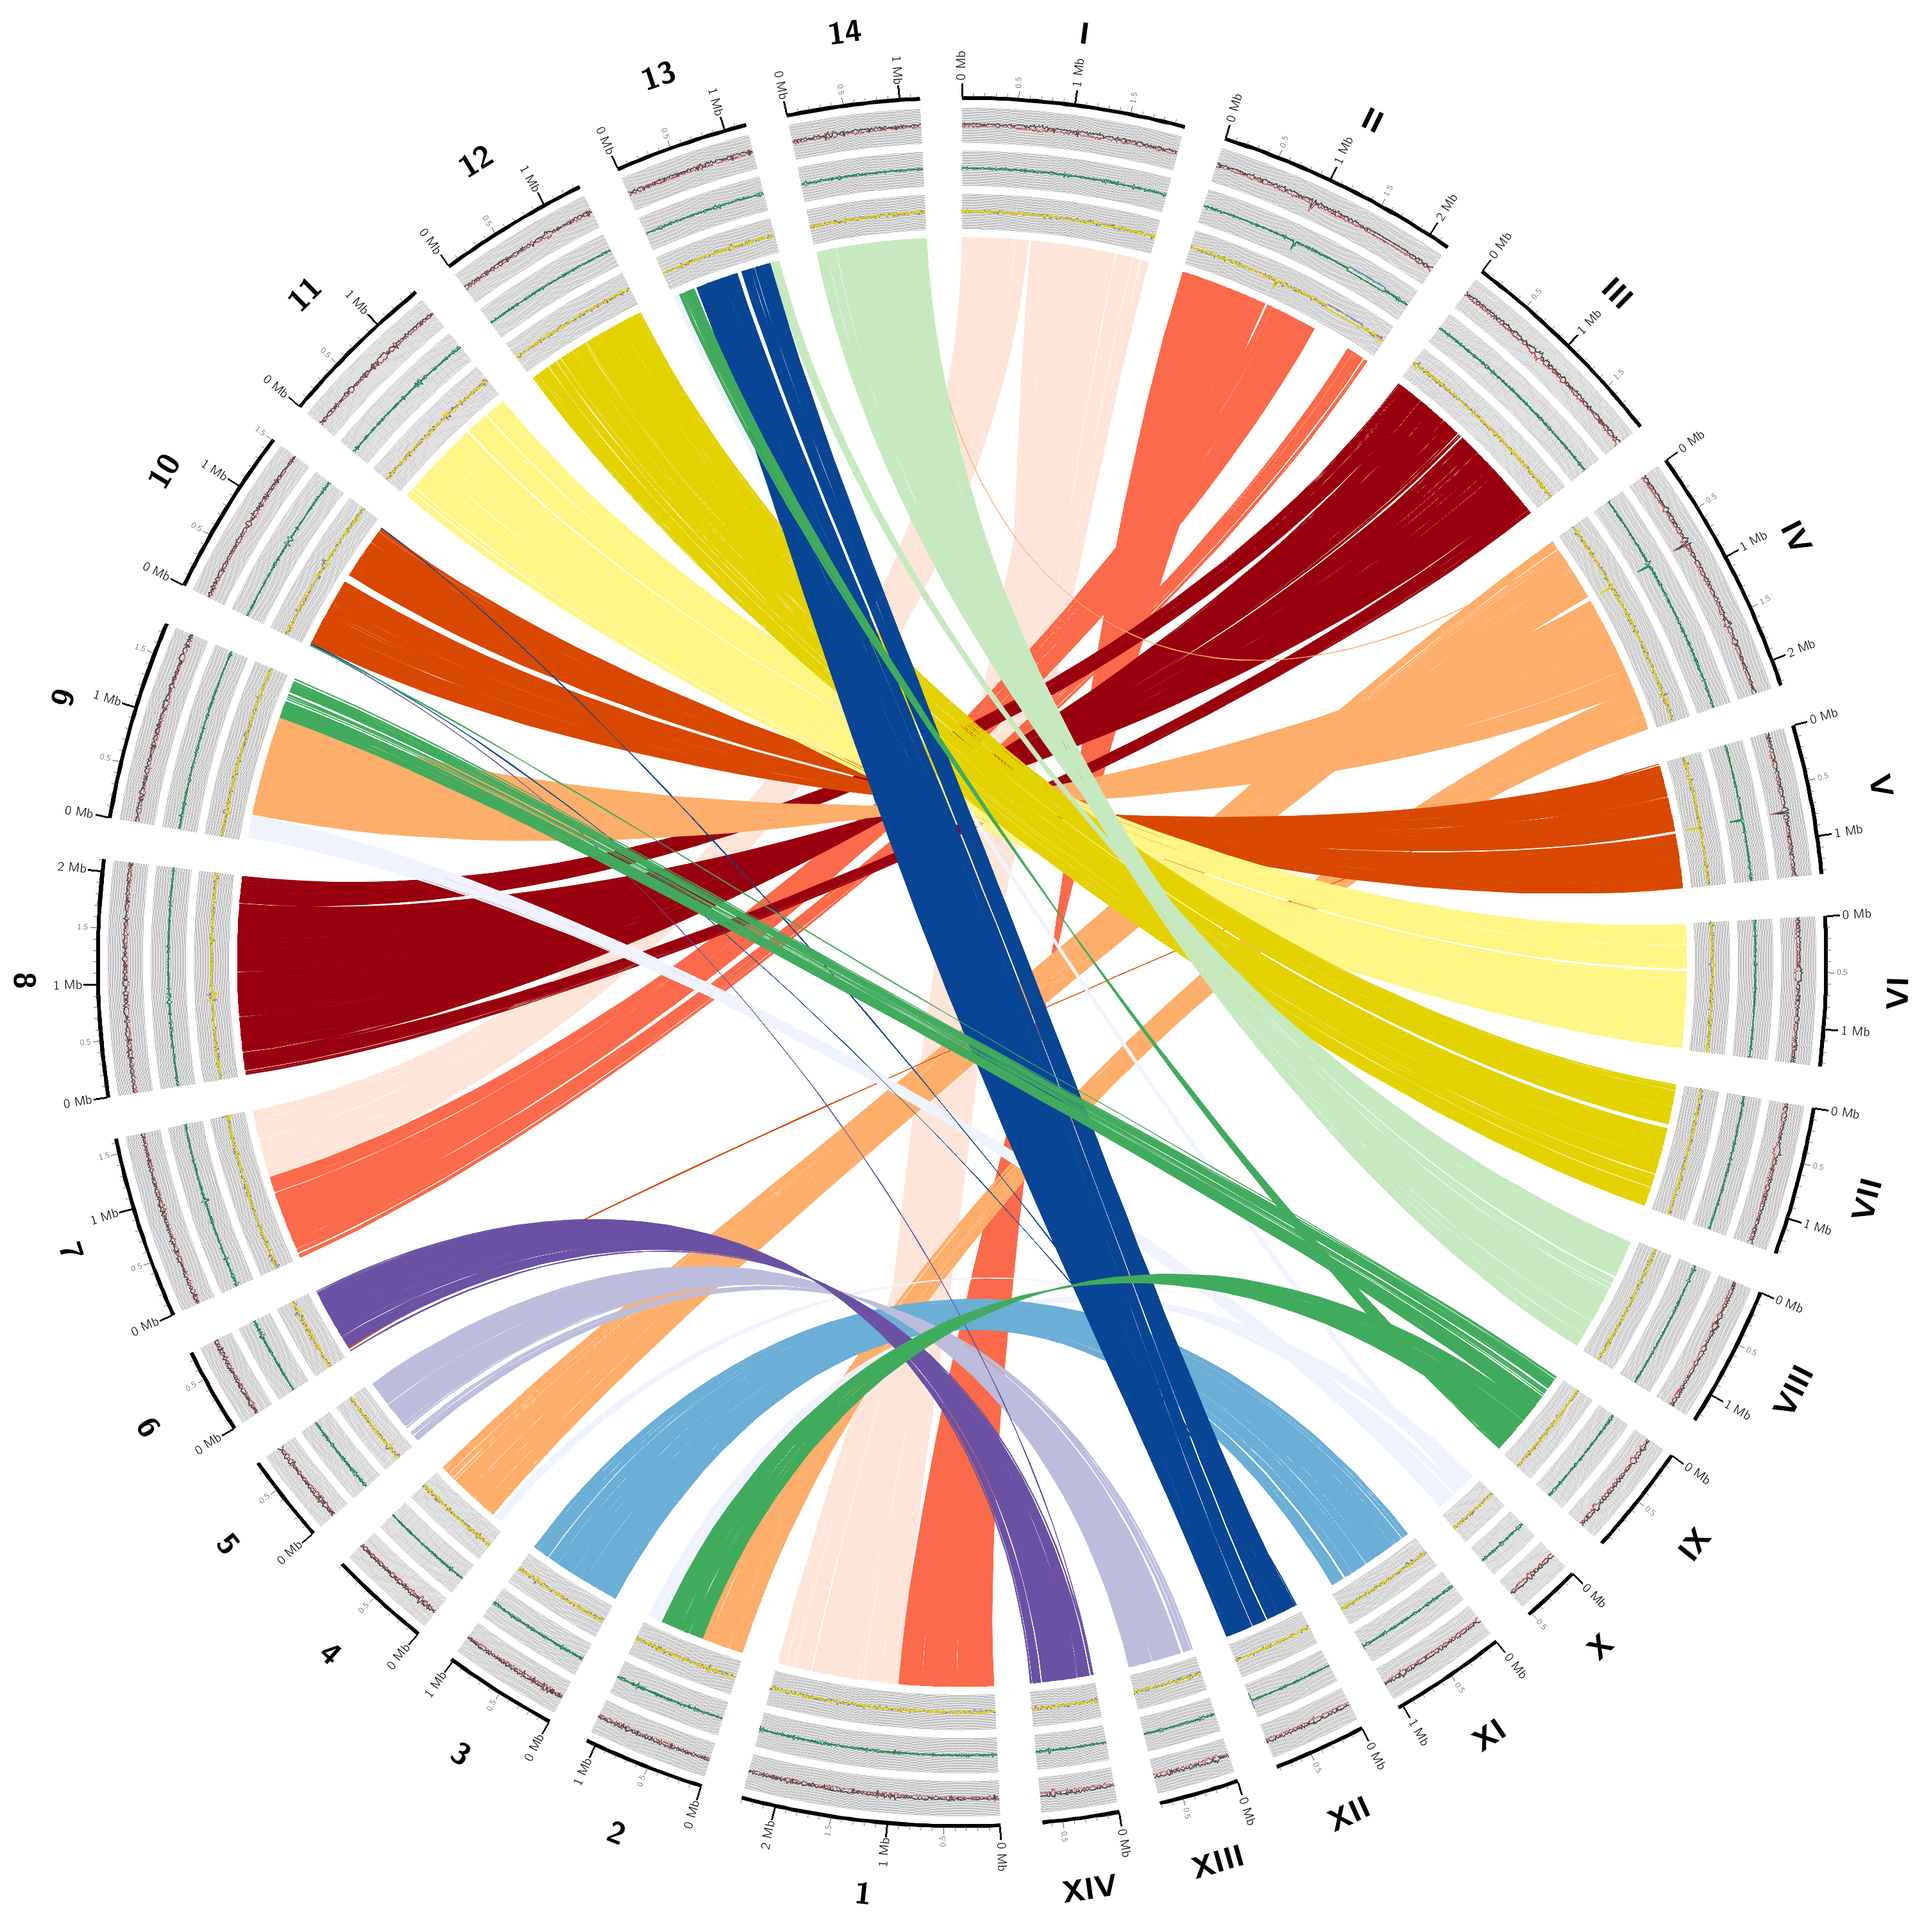
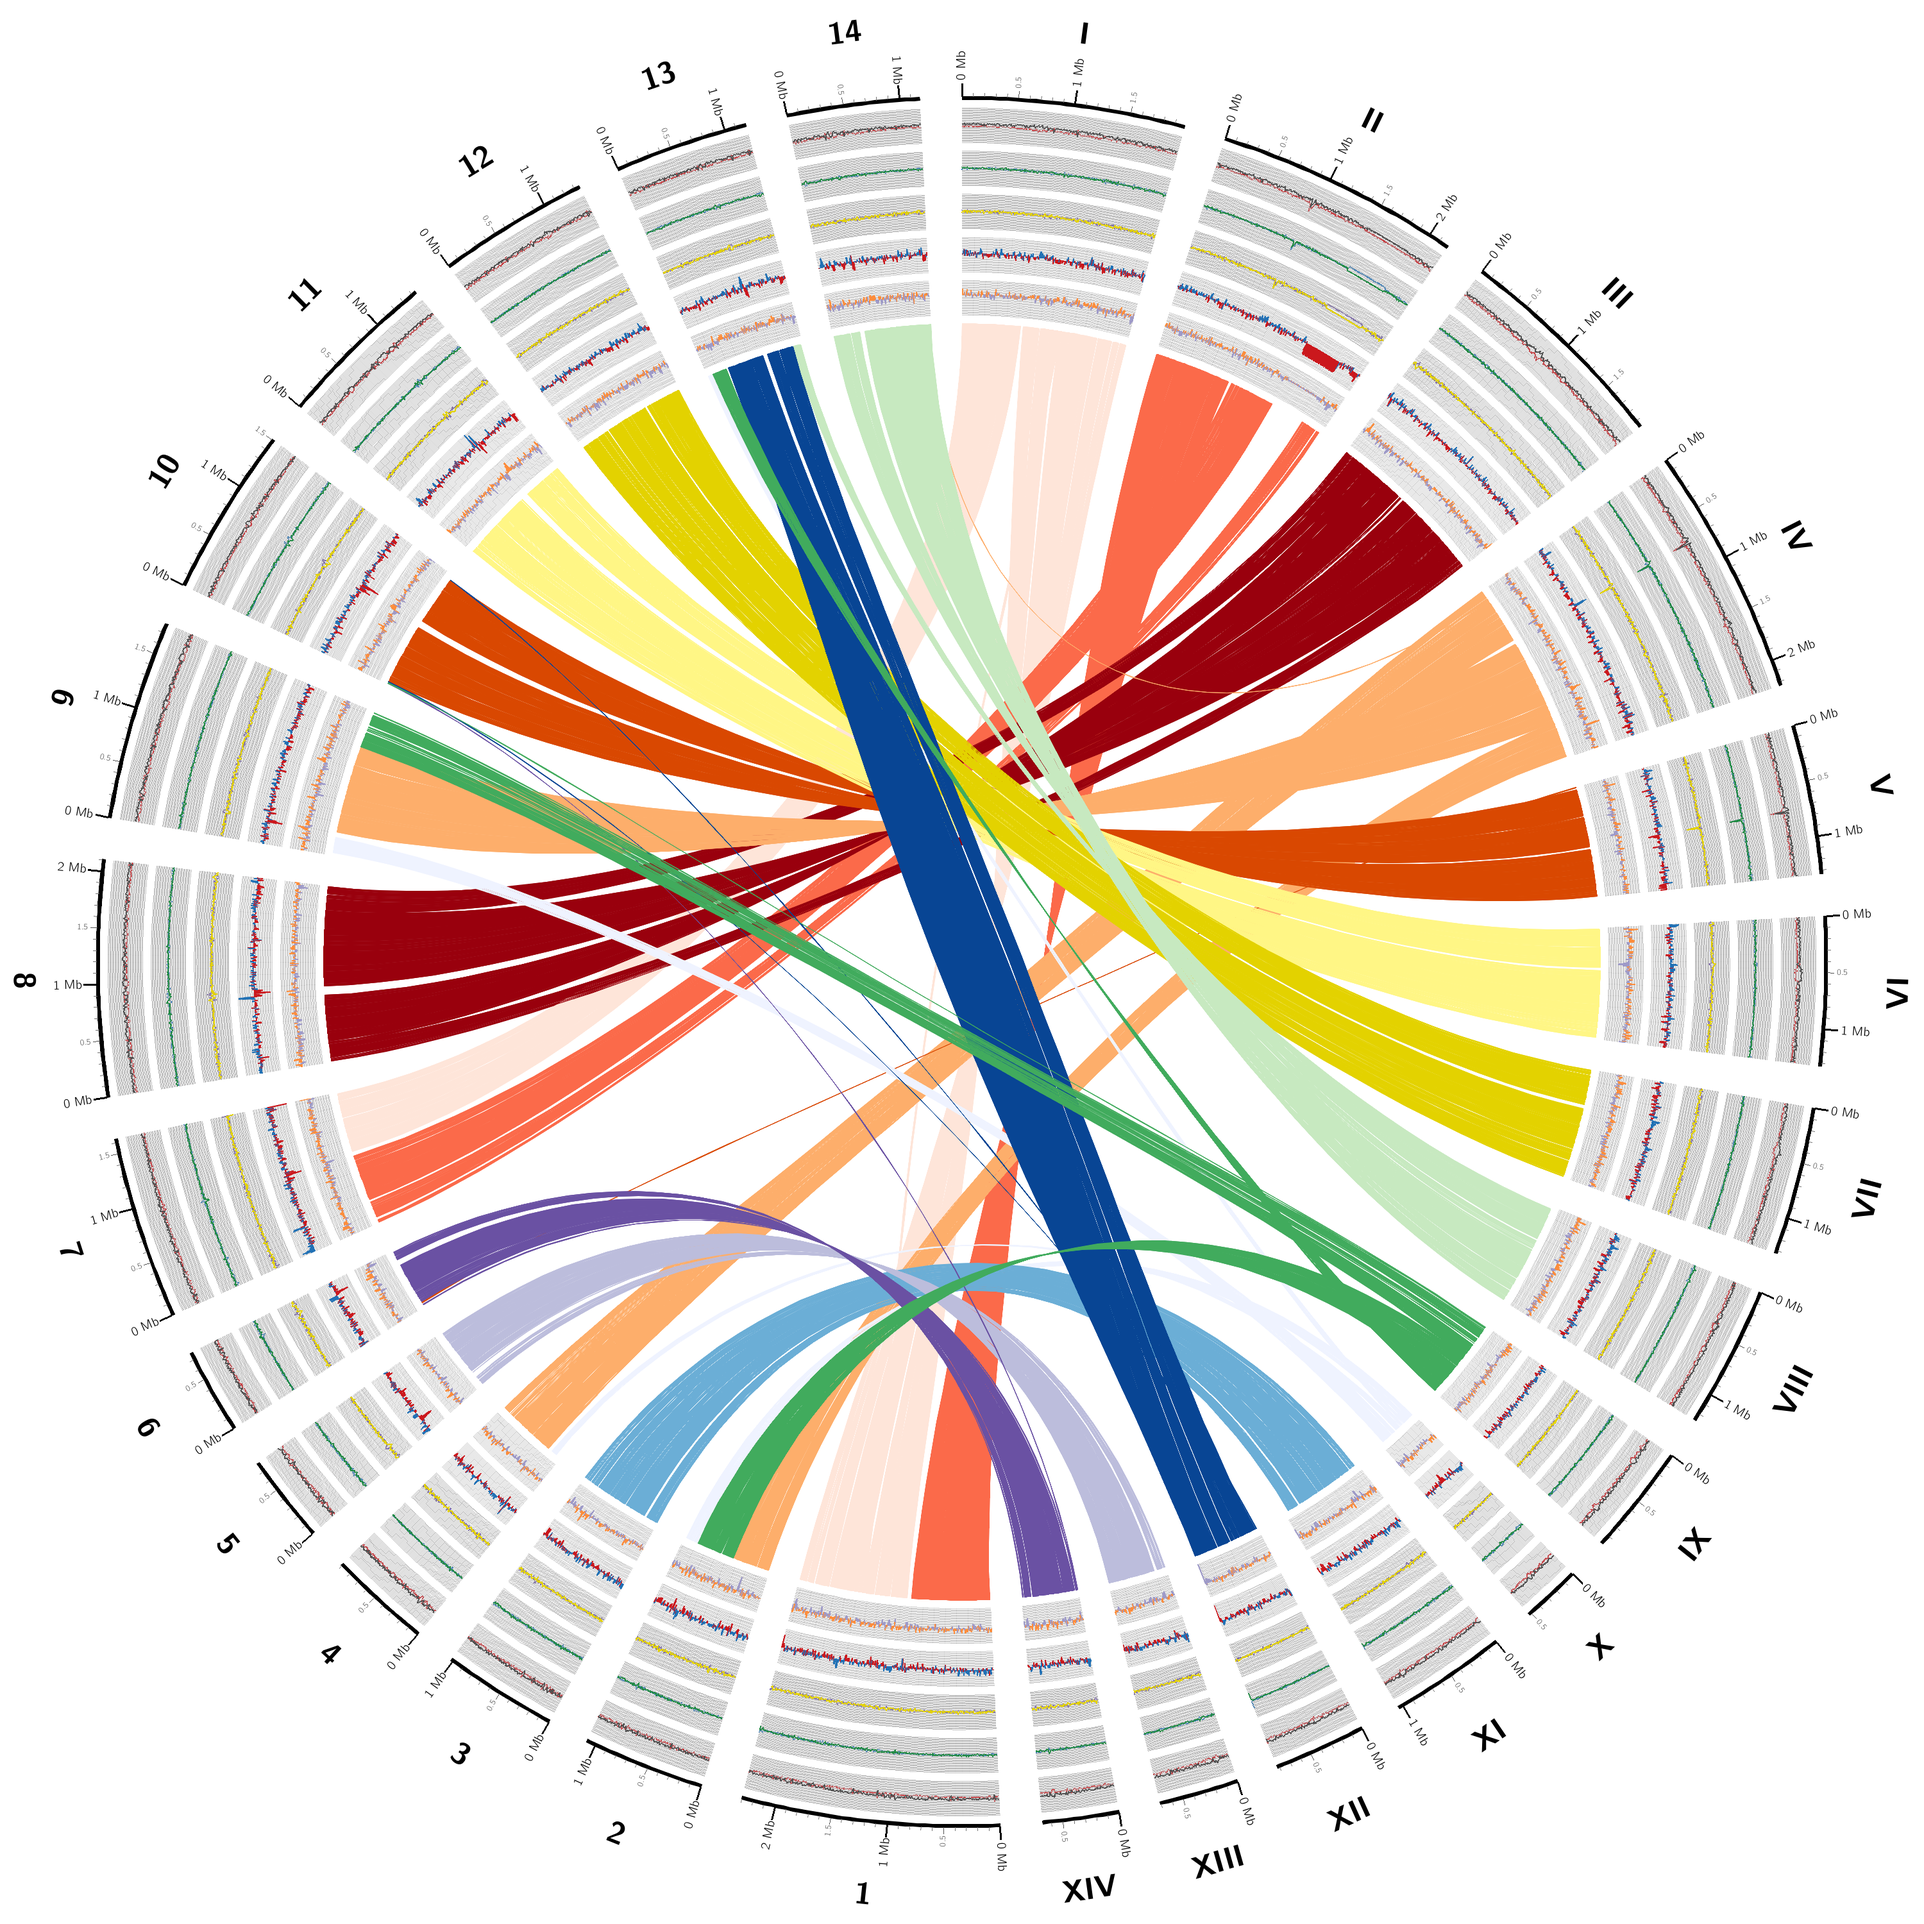
Added GC/AT skews to circos plots

Changed region(s): [[0.124, 0.124, 0.899, 0.899]]

diff --git a/README.md b/README.md
@@ -403,7 +403,8 @@ Options for run_SYNY.pl are:
 --max_links             Set max number of links [Default: 75000]
 --max_points_per_track  Set max number of points per track [Default: 75000]
 --clusters              Color by cluster instead of contig/chromosome [Default: off]
---no_ntbiases           Turn off nucleotide biases subplots
+--no_ntbiases           Turn off nucleotide biases and GC/AT skews subplots
+--no_skews              Turn off GC / AT skews subplots
 --no_cticks             Turn off ticks in Circos plots
 --no_circos             Turn off Circos plots
 
@@ -715,13 +716,15 @@ Karyotypes can be plotted with Circos in normal and/or inverted orientation(s). 
   <img src="https://github.com/PombertLab/SYNY/blob/main/Images/WM276_vs_JEC21.gap_0.normal.png">
 </p>
 
-In this figure, nucleotides biases are plotted in the concentric rings. These subplots can be skipped with the `--no_ntbiases` command line switch. From from outer to inner, the concentric rings are:
+In this figure, nucleotides biases and GC/AT skews are plotted in the concentric rings. These subplots can be skipped with the `--no_ntbiases` command line switch. GC/AT skews can be further turned off independently from nucleotide biases subplots with the `--no_skews` options.
+
+From from outer to inner, the concentric rings are:
 
 - AT and GC nucleotide biases (grey and red lines)
 - GT and AC nucleotide biases (blue and green lines)
 - GA and CT nucleotide biases (purple and yellow lines)
-
-
+- GC skews (histogram: blue [positive], red [negative] values)
+- AT skews (histogram: orange [positive], purple [negative] values)
 
 
 Syntenic blocks identified by SYNY are indicated by ribbons. These ribbons are color-coded based on the chromosomes/contigs present in the reference genome used. If desired, color coding can be set by cluster instead with `--clusters`. This option is useful when working with prokaryotes featuring a single chromosome, so that the ribbons are not all of the same color.
@@ -744,6 +747,7 @@ run_syny.pl \
   -o $SYNY \
   --circos all \
   --circos_prefix WM276_vs_JEC21 \
+  --no_skews \
   --labels names \
   --label_size 20 \
   --label_font semibold

diff --git a/changes.md b/changes.md
@@ -1,7 +1,10 @@
 # SYNY CHANGE LOG
 
 ## SYNY-v1.2a
+- `nucleotide_biases.pl` now calculates GC and AT skews. Corresponding data files are located in the `PLOTS/CIRCOS_DATA/` subdirectory.
+- GC/AT skews are now plotted automatically with Circos. If desired, these subplots can be turned off independently with the `--no_skews` option, or together with all nucleotide biases subplots (with `--no_ntbiases`).
 - Added a simple Fasta + GFF3 to GBFF converter (`gff3_to_gbff.pl`) in the `Utils/` subdirectory. This tool was tested on NCBI GFF3 files and expects the GFF3 file(s) to include gene/mRNA/exon/CDS entries in the `type` column and the `ID` and `Parent` tags in the attributes column. It also expects the corresponding Fasta and GFF3 files to share the same prefixes (e.g. genome_1.fasta / genome_1.gff). The GBFF files thus created were designed to work with SYNY but do not adhere exactly to the GBFF format and may not work for other purposes.
+
 
 ## SYNY-v1.2
 ### Bugfix release
